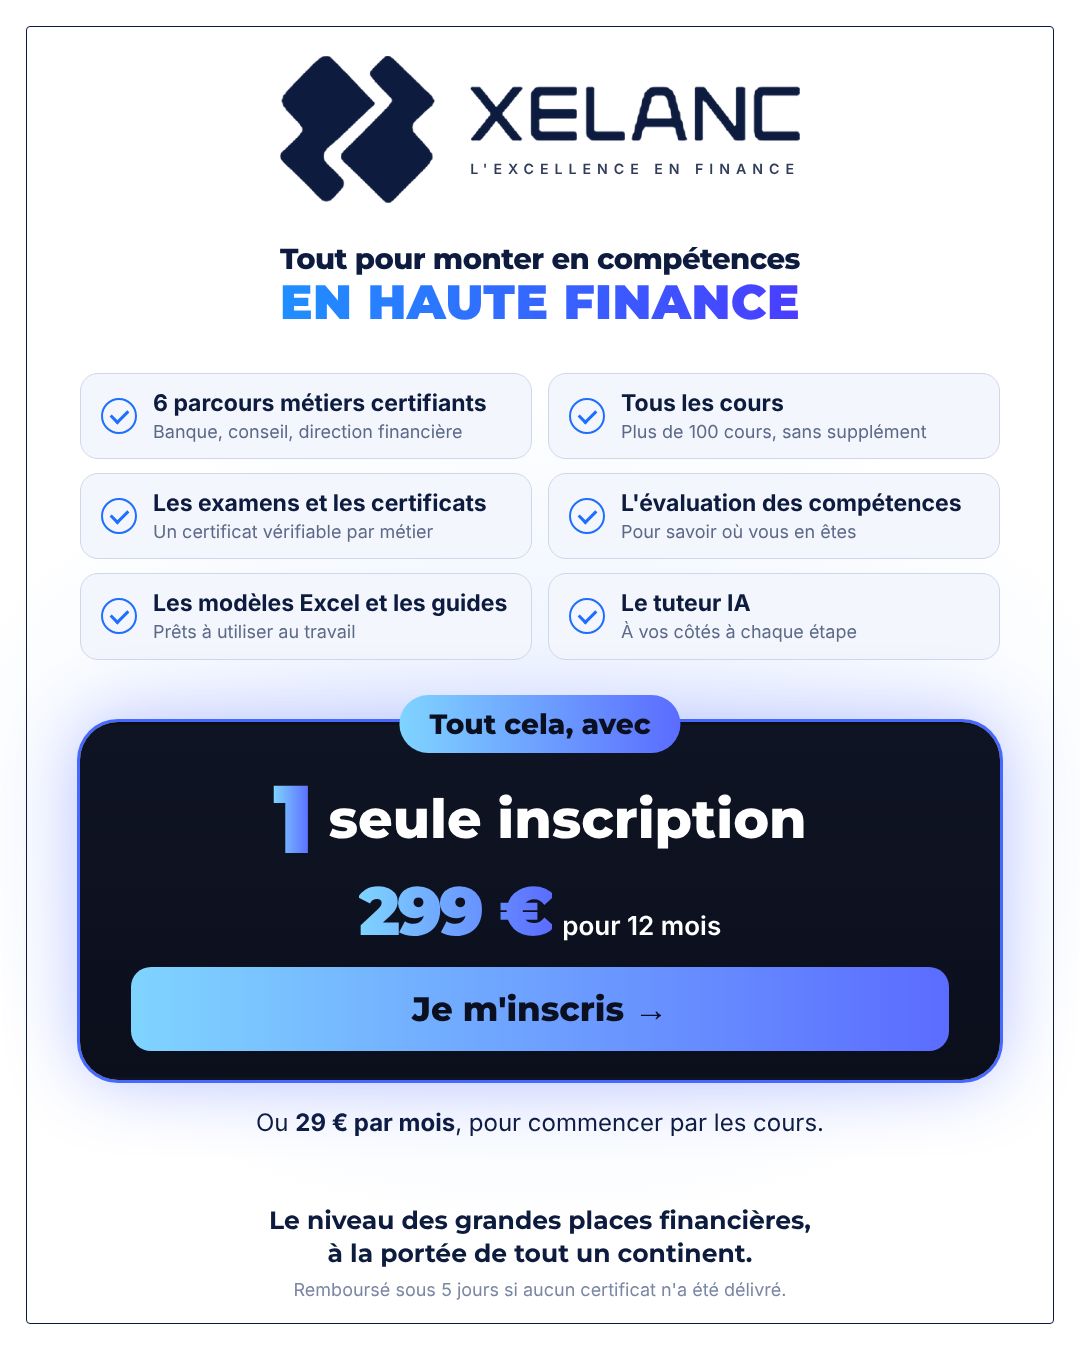
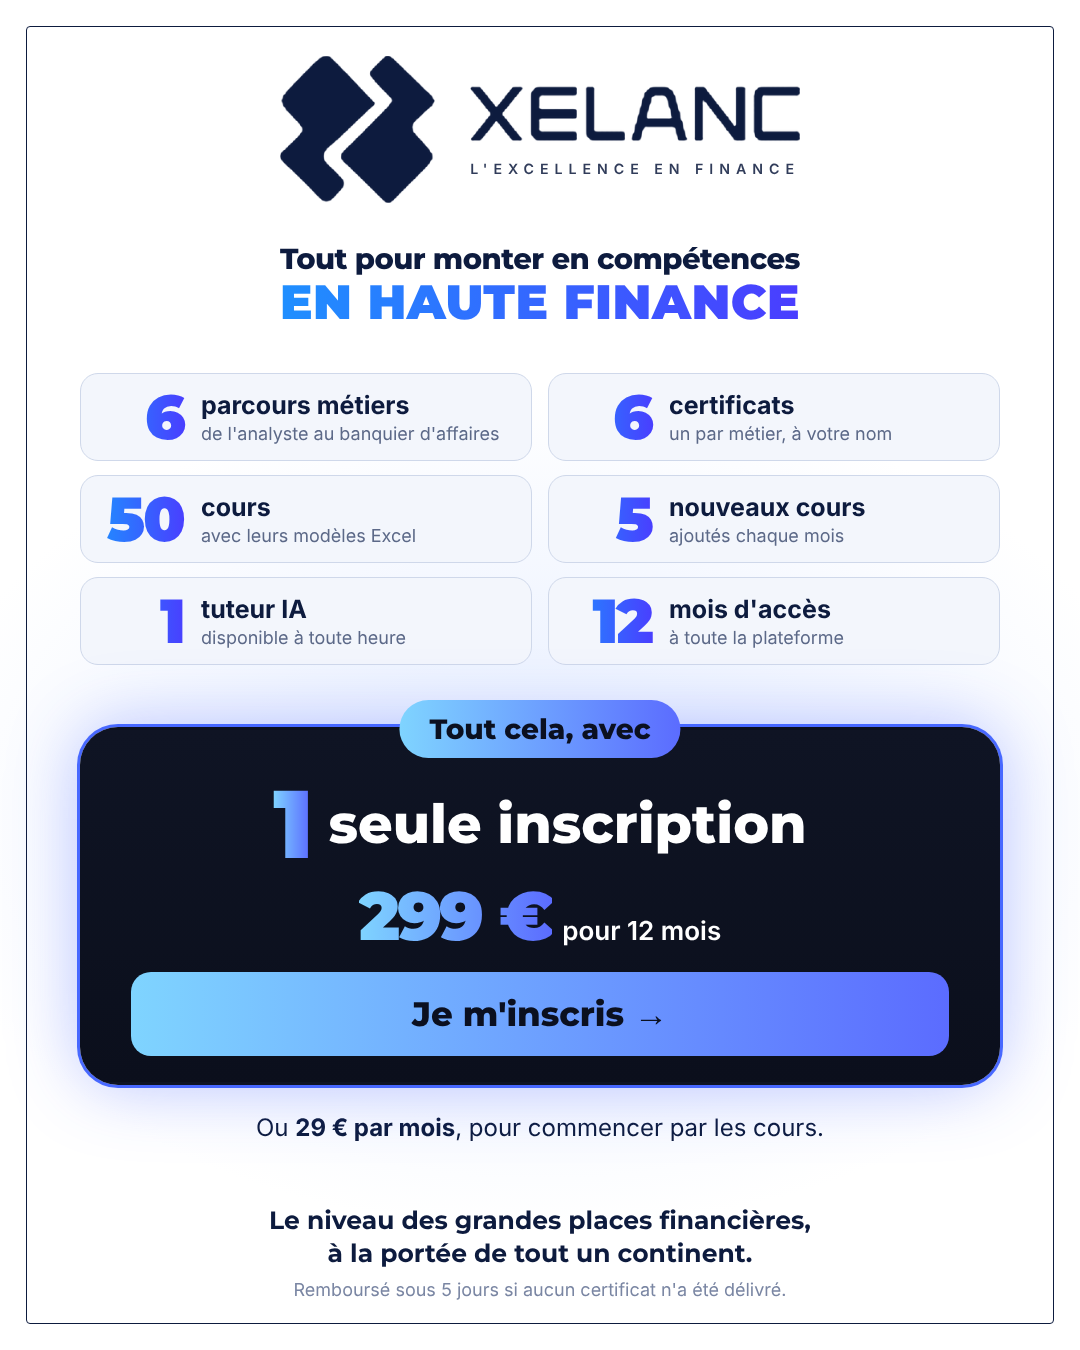
Chiffre les avantages du visuel tout inclus
Claude-Session: https://claude.ai/code/session_01LXovPUf4KLwN8kSMXa7eXm

diff --git a/excellence/ads/retargeting/src/v1-tout.html b/excellence/ads/retargeting/src/v1-tout.html
@@ -7,13 +7,13 @@
     <div class="fit bx-l2">EN HAUTE FINANCE</div>
   </div>
 
-  <div class="tiles">
-    <div class="tile"><i class="tick"></i><div>6 parcours métiers certifiants<small>Banque, conseil, direction financière</small></div></div>
-    <div class="tile"><i class="tick"></i><div>Tous les cours<small>Plus de 100 cours, sans supplément</small></div></div>
-    <div class="tile"><i class="tick"></i><div>Les examens et les certificats<small>Un certificat vérifiable par métier</small></div></div>
-    <div class="tile"><i class="tick"></i><div>L'évaluation des compétences<small>Pour savoir où vous en êtes</small></div></div>
-    <div class="tile"><i class="tick"></i><div>Les modèles Excel et les guides<small>Prêts à utiliser au travail</small></div></div>
-    <div class="tile"><i class="tick"></i><div>Le tuteur IA<small>À vos côtés à chaque étape</small></div></div>
+  <div class="tiles nums">
+    <div class="tile"><b>6</b><div>parcours métiers<small>de l'analyste au banquier d'affaires</small></div></div>
+    <div class="tile"><b>6</b><div>certificats<small>un par métier, à votre nom</small></div></div>
+    <div class="tile"><b>50</b><div>cours<small>avec leurs modèles Excel</small></div></div>
+    <div class="tile"><b>5</b><div>nouveaux cours<small>ajoutés chaque mois</small></div></div>
+    <div class="tile"><b>1</b><div>tuteur IA<small>disponible à toute heure</small></div></div>
+    <div class="tile"><b>12</b><div>mois d'accès<small>à toute la plateforme</small></div></div>
   </div>
 
   <div class="card">

diff --git a/excellence/ads/retargeting/src/style.css b/excellence/ads/retargeting/src/style.css
@@ -389,3 +389,8 @@ body.b-blanc { --tile-bg: #f3f6fc; --tick: #1f6fff; }
 .center.compact.k.box.tout .card { margin-top: 62px; padding-top: 46px; }
 .center.compact.k.box.tout .price .big { font-size: 68px; }
 .center.compact.k.box.tout .offer { margin-top: 10px; }
+
+/* avantages chiffrés */
+.tiles.nums .tile { padding: 12px 20px 12px 14px; gap: 14px; font-size: 25px; }
+.tiles.nums .tile b { flex: none; width: 92px; text-align: right; font-family: Montserrat, sans-serif; font-weight: 900; font-size: 62px; line-height: 1; letter-spacing: -2px; background: var(--grad-out, var(--grad)); -webkit-background-clip: text; background-clip: text; color: transparent; padding-right: 3px; }
+.tiles.nums .tile small { font-size: 18px; }
